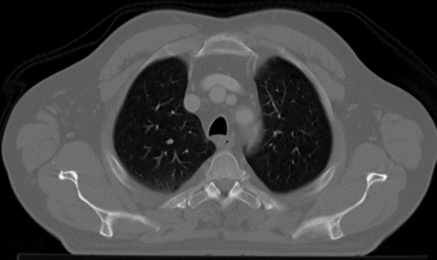
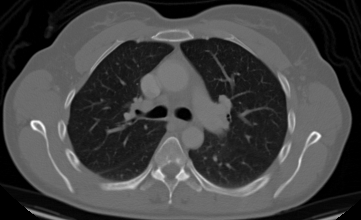
done

diff --git a/app.py b/app.py
@@ -37,6 +37,10 @@ class ClientApp:
         self.classifier2 = PredictionPipeline2(self.filename)
 
 
+# Module-level init so gunicorn `app:app` can serve prediction routes.
+clApp = ClientApp()
+
+
 @app.route("/", methods=["GET"])
 @cross_origin()
 def home():
@@ -51,8 +55,12 @@ def home():
 @app.route("/train", methods=["GET", "POST"])
 @cross_origin()
 def trainRoute():
-    os.system("python main.py")
-    return "Training done successfully!"
+    # Training is not intended inside the Render inference container.
+    return jsonify(
+        {
+            "message": "Training is disabled in the deployed inference service. Run training locally or via DVC."
+        }
+    ), 400
 
 
 @app.route("/predict", methods=["POST"])
@@ -73,6 +81,12 @@ def predictRoute2():
     return jsonify(result)
 
 
+@app.route("/health", methods=["GET"])
+@cross_origin()
+def health():
+    return jsonify({"status": "ok", "predict_route": get_predict_route()})
+
+
 if __name__ == "__main__":
-    clApp = ClientApp()
-    app.run(host="0.0.0.0", port=8080)
+    port = int(os.getenv("PORT", "8080"))
+    app.run(host="0.0.0.0", port=port)

diff --git a/DEPLOY_RENDER.md b/DEPLOY_RENDER.md
@@ -1,0 +1,37 @@
+# Deploy on Render (Docker)
+
+Yes — **Docker + Render works** for this app as an inference service (`PREDICT_ROUTE=two` / Hugging Face model).
+
+## What was added
+- `Dockerfile` — Python 3.12, prod deps, downloads `hf_model` at build time, runs gunicorn
+- `requirements-prod.txt` — inference-only packages (no DVC/MLflow/notebook)
+- `.dockerignore` — keeps build context small
+- `render.yaml` — Docker web service blueprint
+- `app.py` — gunicorn-safe (`clApp` at import), `/health`, training disabled in deploy
+
+## Render steps
+1. Push this repo to GitHub (including `Dockerfile` / `requirements-prod.txt` / `render.yaml`).
+2. In [Render Dashboard](https://dashboard.render.com): **New → Web Service**.
+3. Connect the repo.
+4. Render should detect Docker. If not:
+   - **Runtime:** Docker
+   - **Dockerfile path:** `./Dockerfile`
+5. Set env vars (or use `render.yaml`):
+   - `PREDICT_ROUTE=two`
+   - `KERAS_BACKEND=tensorflow`
+6. Choose a plan with enough RAM (**Starter / 512MB+ may OOM** with TensorFlow; prefer **Standard 2GB+** if available).
+7. Deploy. Open the Render URL when build finishes.
+
+Build downloads ~82MB HF weights into the image, so the first build is slower. Later deploys reuse layers when possible.
+
+## Local Docker test
+```bash
+docker build -t chest-ct-classifier .
+docker run --rm -p 8080:8080 -e PREDICT_ROUTE=two chest-ct-classifier
+```
+Then open http://127.0.0.1:8080/
+
+## Notes
+- Default UI route is `/predict2` (HF). Local VGG `/predict` needs `model/model.keras` in the image (not baked by default).
+- Do not put `.env` secrets into the image; set only needed vars in Render.
+- Free/low-memory instances often fail with TensorFlow; upgrade plan if the service is killed / OOM.

diff --git a/hf_model/README.md b/hf_model/README.md
@@ -1,0 +1,50 @@
+---
+library_name: keras
+---
+
+## Model description
+
+More information needed
+
+## Intended uses & limitations
+
+More information needed
+
+## Training and evaluation data
+
+More information needed
+
+## Training procedure
+
+### Training hyperparameters
+
+The following hyperparameters were used during training:
+
+| Hyperparameters | Value |
+| :-- | :-- |
+| name | Adam |
+| weight_decay | None |
+| clipnorm | None |
+| global_clipnorm | None |
+| clipvalue | None |
+| use_ema | False |
+| ema_momentum | 0.99 |
+| ema_overwrite_frequency | None |
+| jit_compile | True |
+| is_legacy_optimizer | False |
+| learning_rate | 0.0010000000474974513 |
+| beta_1 | 0.9 |
+| beta_2 | 0.999 |
+| epsilon | 1e-07 |
+| amsgrad | False |
+| training_precision | float32 |
+
+
+ ## Model Plot
+
+<details>
+<summary>View Model Plot</summary>
+
+![Model Image](./model.png)
+
+</details>
